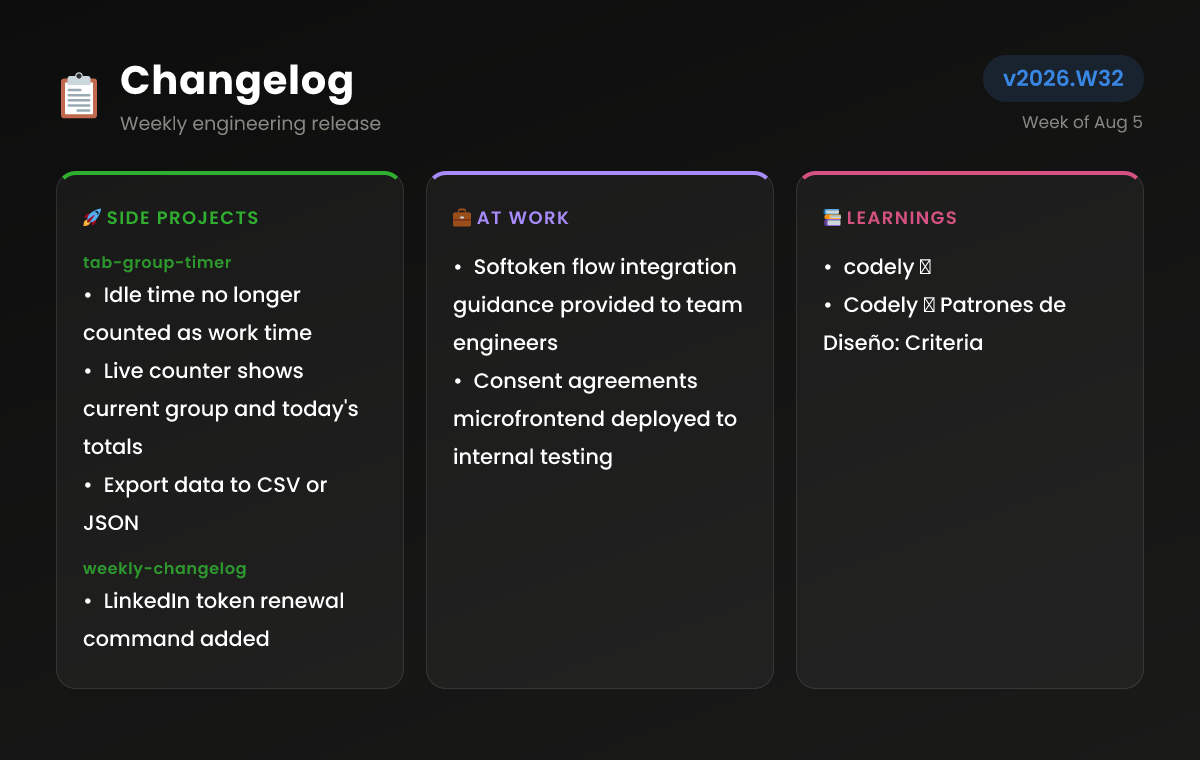
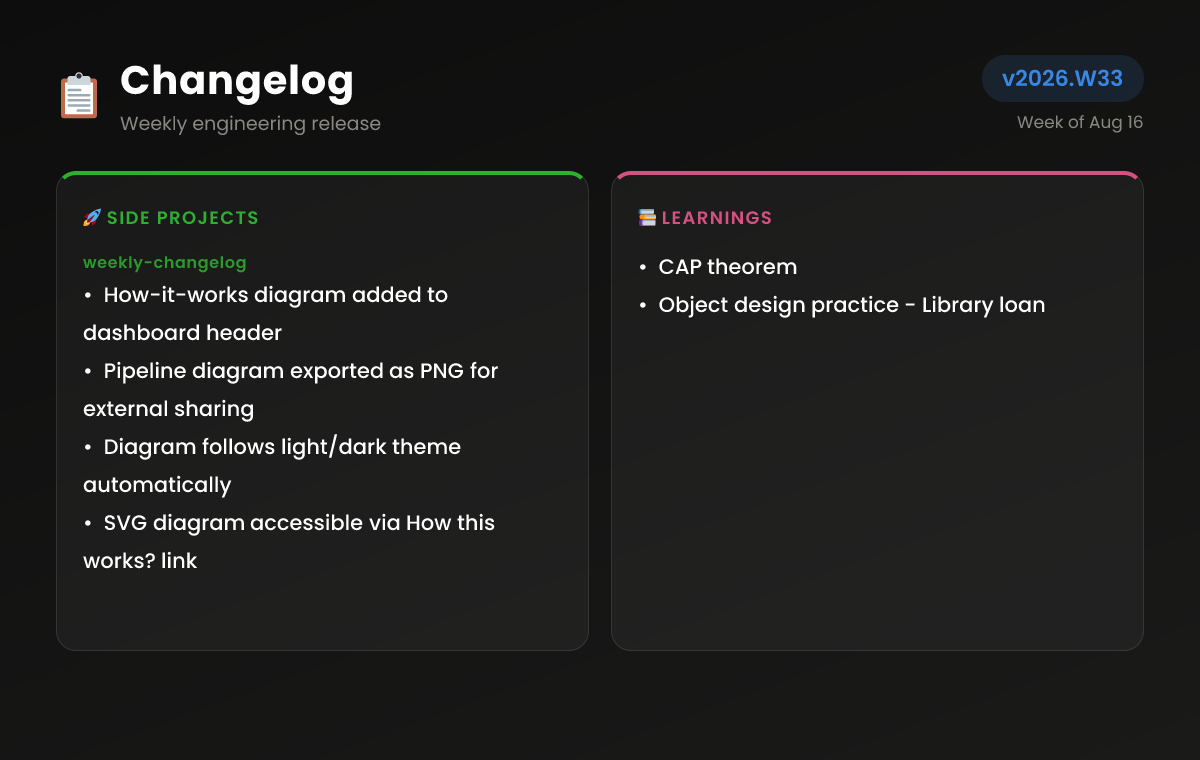
feat: Add card and index on own build

diff --git a/docs/index.html b/docs/index.html
@@ -229,6 +229,20 @@
 
     .empty-state { text-align: center; color: var(--text-muted); font-size: 15px; padding: 20px 0; }
 
+    /* How this works — a link in the header opens the pipeline diagram over the page. */
+    .header-actions { display: flex; align-items: center; gap: 10px; flex-wrap: wrap; }
+    .how-link { font-size: 12px; font-weight: 600; letter-spacing: 0.06em; text-transform: uppercase; color: var(--accent-purple); background: var(--accent-purple-bg); border: 1px solid var(--border); padding: 7px 16px; border-radius: 999px; text-decoration: none; white-space: nowrap; }
+    .how-link:hover { border-color: var(--accent-purple); }
+    .how-modal { display: none; }
+    .how-modal:target { display: flex; position: fixed; inset: 0; z-index: 30; align-items: center; justify-content: center; padding: clamp(12px, 3vw, 40px); }
+    .how-backdrop { position: absolute; inset: 0; background: rgba(11, 11, 11, 0.66); }
+    .how-panel { position: relative; margin: 0; width: min(1180px, 100%); max-height: 92vh; overflow: auto; background: var(--surface); border: 1px solid var(--border); border-radius: 16px; box-shadow: 0 24px 60px rgba(0, 0, 0, 0.35); padding: clamp(16px, 2vw, 24px); }
+    .how-close { position: absolute; top: 10px; right: 16px; font-size: 22px; line-height: 1; color: var(--text-muted); text-decoration: none; }
+    .how-close:hover { color: var(--text-primary); }
+    .how-canvas { overflow-x: auto; }
+    .how-canvas svg { display: block; width: 100%; min-width: 720px; height: auto; }
+    .how-caption { font-size: 13.5px; line-height: 1.55; color: var(--text-muted); margin: 14px 0 0; }
+
     footer { font-size: 13px; color: var(--text-muted); text-align: center; }
     footer a { color: var(--text-secondary); text-decoration: none; }
     footer a:hover { text-decoration: underline; }
@@ -244,116 +258,82 @@
   <div class="page">
     <header class="page-header">
       <h1>Weekly Changelog</h1>
-      <span class="week-pill">Week of Aug 5</span>
+      <div class="header-actions">
+        <a class="how-link" href="#how-it-works">How this works?</a>
+        <span class="week-pill">Week of Aug 16</span>
+      </div>
     </header>
     
     <section class="digest-hero accent-yellow">
       <p class="digest-eyebrow"><span class="ai-badge">AI</span>This week</p>
-      <h2 class="digest-headline">Tab Group Timer reaches 1.0 and privacy policy published</h2>
-      <p class="digest-summary">A lightweight Chrome extension now tracks time per tab group with local-only storage and idle detection. A companion changelog generator adds LinkedIn token renewal and LinkedIn post features.</p>
+      <h2 class="digest-headline">How-it-works diagram added to changelog dashboard</h2>
+      <p class="digest-summary">A visual pipeline diagram is now available to explain the changelog generation flow. The dashboard gains a themed inline SVG and a PNG export for external use.</p>
     </section>
     
-    <section class="dashboard-section">
-      <h2>At work</h2>
-      <article class="entry-card accent-purple">
-        <p class="repo-evaluation"><span class="ai-badge">AI</span>Engineering support delivered for softoken flow integration and internal consent microfrontend deployment. Testing environments validated for company-wide use.</p>
-        <ul class="changes"><li>Helped other team engineers in order to start softoken flow integration</li><li>consents agreements microfronted on testing environment for entire company internal use</li></ul>
-      </article>
-    </section>
     
     <section class="dashboard-section">
       <h2>Product updates by repository</h2>
       <div class="repo-stack">
       <article class="repo-card accent-blue">
         <header class="entry-head">
-          <a class="entry-title" href="https://github.com/jormiquis/tab-group-timer" target="_blank" rel="noopener">tab-group-timer</a>
-          <span class="repo-product">a Chrome extension for tab-group time tracking</span>
+          <a class="entry-title" href="https://github.com/jormiquis/weekly-changelog" target="_blank" rel="noopener">weekly-changelog</a>
+          <span class="repo-product">automated changelog generator</span>
         </header>
-        <p class="repo-evaluation"><span class="ai-badge">AI</span>The extension graduates to v1.0 with a privacy policy, refined idle handling, and a more robust session model. Build artifacts and screenshots are now versioned and packaged for distribution.</p>
+        <p class="repo-evaluation"><span class="ai-badge">AI</span>A new pipeline diagram illustrates the end-to-end changelog process. The dashboard now includes a themed inline SVG and a PNG export for LinkedIn and README use.</p>
         <div class="product-changes">
           <span class="block-label">What changed in the product</span>
-          <ul class="changes"><li>Idle time no longer counted as work time</li><li>Live counter shows current group and today&#39;s totals</li><li>Export data to CSV or JSON</li><li>Privacy policy published and packaged with extension</li></ul>
+          <ul class="changes"><li>How-it-works diagram added to dashboard header</li><li>Pipeline diagram exported as PNG for external sharing</li><li>Diagram follows light/dark theme automatically</li><li>SVG diagram accessible via How this works? link</li></ul>
         </div>
         <div class="repo-highlights">
           <span class="block-label">Decisions</span>
           <div class="highlight-grid">
         <article class="highlight-card">
           <header class="highlight-head">
-            <span class="highlight-title"><span class="ai-badge">AI</span>Session pattern with aggregate state</span>
+            <span class="highlight-title"><span class="ai-badge">AI</span>Theme-aware SVG rendering</span>
           </header>
-          <p class="decision-tradeoff"><span class="tradeoff-label">Chosen over</span> <span class="tradeoff-discarded">naive per-tab tracking</span></p>
+          <p class="decision-tradeoff"><span class="tradeoff-label">Chosen over</span> <span class="tradeoff-discarded">Hardcoded color values</span></p>
           <div class="highlight-body">
-            <pre class="code-panel"><code class="language-typescript">export class TrackActiveTabUseCase {
-  constructor(
-    private repo: TimeRepository,
-    private clock: Clock,
-    private sessions: SessionStore,
-  ) {}
-
-  async onActiveTabChanged(info: ActiveTabInfo): Promise&lt;void&gt; {
-    const now = this.clock.now();
-    const current = await this.sessions.get();
-
-    if (current &amp;&amp; current.groupKey === info.groupKey) {
-      if (current.groupTitle !== info.groupTitle) {
-        await this.sessions.set({ ...current, groupTitle: info.groupTitle });
-      }
-      return;
-    }
-
-    if (current) {
-      await this.flush(now);
-    }
-    await this.sessions.set(
-      new ActiveSession(info.groupKey, info.groupTitle, now)
-    );
-  }</code></pre>
-            <pre class="mermaid">flowchart LR
-  A[onActiveTabChanged] --&gt; B{current session?}
-  B --&gt;|yes| C{same group?}
-  C --&gt;|yes| D[update title]
-  C --&gt;|no| E[close session]
-  B --&gt;|no| F[open new session]</pre>
+            <pre class="code-panel"><code class="language-typescript">export const themedPalette: DiagramPalette = {
+  background: &#39;none&#39;,
+  surface: &#39;var(--tag-bg)&#39;,
+  border: &#39;var(--border)&#39;,
+  textPrimary: &#39;var(--text-primary)&#39;,
+  textSecondary: &#39;var(--text-secondary)&#39;,
+  textMuted: &#39;var(--text-muted)&#39;,
+  line: &#39;var(--text-muted)&#39;,
+  ai: &#39;var(--accent-purple)&#39;,
+  aiSurface: &#39;var(--accent-purple-bg)&#39;,
+  gate: &#39;var(--accent-magenta)&#39;,
+  gateSurface: &#39;var(--accent-magenta-bg)&#39;,
+  publish: &#39;var(--accent-blue)&#39;,
+  publishSurface: &#39;var(--accent-blue-bg)&#39;,
+}</code></pre>
+            <pre class="mermaid">flowchart TD
+  A[Dashboard CSS Variables] --&gt; B[DiagramPalette Interface]
+  B --&gt; C[Inline SVG Rendering]
+  B --&gt; D[PNG Export with Literal Colors]</pre>
           </div>
         </article>
         <article class="highlight-card">
           <header class="highlight-head">
-            <span class="highlight-title"><span class="ai-badge">AI</span>Provider pattern for session storage</span>
+            <span class="highlight-title"><span class="ai-badge">AI</span>Modular diagram generation pipeline</span>
           </header>
-          <p class="decision-tradeoff"><span class="tradeoff-label">Chosen over</span> <span class="tradeoff-discarded">direct chrome.storage.local calls</span></p>
+          <p class="decision-tradeoff"><span class="tradeoff-label">Chosen over</span> <span class="tradeoff-discarded">Monolithic diagram script</span></p>
           <div class="highlight-body">
-            <pre class="code-panel"><code class="language-typescript">export class ChromeSessionStore implements SessionStore {
-  async get(): Promise&lt;ActiveSession | null&gt; {
-    const { session } = await chrome.storage.session.get(&#39;session&#39;);
-    return session ? ActiveSession.fromPlain(session) : null;
-  }
+            <pre class="code-panel"><code class="language-typescript">import { writeFileSync } from &#39;fs&#39;;
+import { renderHowItWorksPng } from &#39;./renderHowItWorks.js&#39;;
 
-  async set(session: ActiveSession): Promise&lt;void&gt; {
-    await chrome.storage.session.set({ session });
-  }
-}</code></pre>
-            <pre class="mermaid">flowchart LR
-  A[SessionStore] --&gt; B[chrome.storage.session]
-  A --&gt; C[ActiveSession]
-  B --&gt;|get| A
-  B --&gt;|set| A</pre>
+const target = process.argv[2] || &#39;docs/how-it-works.png&#39;
+writeFileSync(target, renderHowItWorksPng())
+console.log(`How-it-works diagram written to ${target}`)</code></pre>
+            <pre class="mermaid">flowchart TD
+  A[CLI Command] --&gt; B[generate.ts]
+  B --&gt; C[renderHowItWorksPng]
+  C --&gt; D[PNG File Output]</pre>
           </div>
         </article></div>
         </div>
-        <a class="diff-link" href="https://github.com/jormiquis/tab-group-timer/compare/16ad02786534c2158ddfa78bc721713a8b1ffa46...9bffa567bd0490707add83e47f54275160e74b3a.diff" target="_blank" rel="noopener">View full diff &rarr;</a>
-      </article>
-      <article class="repo-card accent-blue">
-        <header class="entry-head">
-          <a class="entry-title" href="https://github.com/jormiquis/weekly-changelog" target="_blank" rel="noopener">weekly-changelog</a>
-          <span class="repo-product">a changelog generator CLI</span>
-        </header>
-        <p class="repo-evaluation"><span class="ai-badge">AI</span>The generator now supports LinkedIn token renewal, LinkedIn post linking, and a unified view of side projects and work activity. Scheduling and dashboard options have been refined.</p>
-        <div class="product-changes">
-          <span class="block-label">What changed in the product</span>
-          <ul class="changes"><li>LinkedIn token renewal command added</li><li>LinkedIn post link caption changed</li><li>Side projects and work activity unified in one section</li><li>Cron hour adjusted and dashboard alternative provided</li></ul>
-        </div>
-        
-        <a class="diff-link" href="https://github.com/jormiquis/weekly-changelog/compare/0be5018be472c787e45b34dfa547689cc62e896d...6bbb2f2609ef013c8fa4e33d344ee4268a6b0018.diff" target="_blank" rel="noopener">View full diff &rarr;</a>
+        <a class="diff-link" href="https://github.com/jormiquis/weekly-changelog/compare/cabe441025a2d7acc06d04106ff7181a3aaa202f...86847a92361aadae0d4ca4d6ab0080c44f393260.diff" target="_blank" rel="noopener">View full diff &rarr;</a>
       </article></div>
     </section>
     
@@ -365,25 +345,33 @@
       <div class="entry-grid">
       <article class="entry-card accent-magenta">
         <header class="entry-head">
-          <span class="entry-title"><span class="emoji">📝</span>codely → </span>
+          <span class="entry-title"><span class="emoji">📝</span>CAP theorem</span>
         </header>
-        
-        <div class="tags"><span class="tag">courses</span><span class="tag">infrastructure</span></div>
-        
+        <p class="repo-evaluation"><span class="ai-badge">AI</span>A note referencing the CAP theorem in the context of distributed changelog generation.</p>
+        <div class="tags"><span class="tag">Software Engineering</span></div>
+        <div class="sources"><span class="sources-label">Sources</span><a href="https://www.ibm.com/es-es/think/topics/cap-theorem" target="_blank" rel="noopener">https://www.ibm.com/es-es/think/topics/cap-theorem</a></div>
       </article>
       <article class="entry-card accent-magenta">
         <header class="entry-head">
-          <span class="entry-title"><span class="emoji">📝</span>Codely → Patrones de Diseño: Criteria</span>
+          <span class="entry-title"><span class="emoji">📝</span>Object design practice - Library loan</span>
         </header>
-        
-        <div class="tags"><span class="tag">courses</span><span class="tag">patterns</span></div>
-        
+        <p class="repo-evaluation"><span class="ai-badge">AI</span>A note on applying object design principles to library loan system modeling.</p>
+        <div class="tags"><span class="tag">modeling</span><span class="tag">kata</span></div>
+        <div class="sources"><span class="sources-label">Sources</span><a href="https://emmanuelvalverderamos.substack.com/p/kata-2-library-loan?utm_campaign=post&amp;utm_medium=web" target="_blank" rel="noopener">https://emmanuelvalverderamos.substack.com/p/kata-2-library-loan?utm_campaign=post&amp;utm_medium=web</a></div>
       </article></div>
     </section>
     
   </div>
+  <div class="how-modal" id="how-it-works">
+    <a class="how-backdrop" href="#_" aria-label="Close"></a>
+    <figure class="how-panel">
+      <a class="how-close" href="#_" aria-label="Close">&times;</a>
+      <div class="how-canvas"><svg xmlns="http://www.w3.org/2000/svg" viewBox="0 0 1200 900" role="img" font-family="Poppins, sans-serif" aria-label="How the weekly changelog works: a GitHub Actions cron pulls GitHub and Notion activity into a domain hexagon, an optional free-tier LLM chain adds a digest, a card and dashboard are rendered, and a Telegram approval decides whether the post reaches LinkedIn."><rect width="1200" height="900" fill="none"/><text x="52" y="86" font-size="38" font-weight="700" fill="var(--text-primary)" text-anchor="start">How this works</text><text x="52" y="118" font-size="16" font-weight="400" fill="var(--text-muted)" text-anchor="start">A week of commits and notes, turned into a post — and nothing published without a human yes.</text><rect x="52" y="196" width="240" height="100" rx="14" fill="var(--tag-bg)" stroke="var(--border)" stroke-width="1.5"/><g transform="translate(76 233) scale(1.0833)"><path d="M12 .297c-6.63 0-12 5.373-12 12 0 5.303 3.438 9.8 8.205 11.385.6.113.82-.258.82-.577 0-.285-.01-1.04-.015-2.04-3.338.724-4.042-1.61-4.042-1.61C4.422 18.07 3.633 17.7 3.633 17.7c-1.087-.744.084-.729.084-.729 1.205.084 1.838 1.236 1.838 1.236 1.07 1.835 2.809 1.305 3.495.998.108-.776.417-1.305.76-1.605-2.665-.3-5.466-1.332-5.466-5.93 0-1.31.465-2.38 1.235-3.22-.135-.303-.54-1.523.105-3.176 0 0 1.005-.322 3.3 1.23.96-.267 1.98-.399 3-.405 1.02.006 2.04.138 3 .405 2.28-1.552 3.285-1.23 3.285-1.23.645 1.653.24 2.873.12 3.176.765.84 1.23 1.91 1.23 3.22 0 4.61-2.805 5.625-5.475 5.92.42.36.81 1.096.81 2.22 0 1.606-.015 2.896-.015 3.286 0 .315.21.69.825.57C20.565 22.092 24 17.592 24 12.297c0-6.627-5.373-12-12-12" fill="var(--text-primary)"/></g><text x="118" y="242" font-size="18" font-weight="600" fill="var(--text-primary)" text-anchor="start">GitHub Actions</text><text x="118" y="264" font-size="12" font-weight="400" fill="var(--text-muted)" text-anchor="start">cron · every Wed 07:25 UTC</text><line x1="222" y1="306" x2="222.0" y2="400.1" stroke="var(--text-muted)" stroke-width="1.8" stroke-linecap="round"/><polygon points="222,412 217.7,400.1 226.3,400.1" fill="var(--text-muted)"/><rect x="380" y="190" width="520" height="152" rx="18" fill="var(--accent-purple-bg)" stroke="var(--accent-purple)" stroke-width="1.5" stroke-dasharray="7 6"/><text x="640" y="218" font-size="11.5" font-weight="400" fill="var(--accent-purple)" text-anchor="middle" letter-spacing="0.6">SourceSynthesizer · first free-tier provider that answers wins</text><rect x="400" y="238" width="200" height="84" rx="14" fill="var(--tag-bg)" stroke="var(--border)" stroke-width="1.5"/><g transform="translate(414 252) scale(0.7500)"><path d="M12 1.6l2.05 6.35L20.4 12l-6.35 2.05L12 20.4l-2.05-6.35L3.6 12l6.35-2.05z" fill="var(--accent-purple)"/></g><text x="500" y="282" font-size="19" font-weight="600" fill="var(--text-primary)" text-anchor="middle">Mistral</text><text x="500" y="304" font-size="12" font-weight="400" fill="var(--text-muted)" text-anchor="middle">primary</text><rect x="680" y="238" width="200" height="84" rx="14" fill="var(--tag-bg)" stroke="var(--border)" stroke-width="1.5"/><g transform="translate(694 252) scale(0.7500)"><path d="M12 1.6l2.05 6.35L20.4 12l-6.35 2.05L12 20.4l-2.05-6.35L3.6 12l6.35-2.05z" fill="var(--accent-purple)"/></g><text x="780" y="282" font-size="19" font-weight="600" fill="var(--text-primary)" text-anchor="middle">Groq</text><text x="780" y="304" font-size="12" font-weight="400" fill="var(--text-muted)" text-anchor="middle">fallback</text><line x1="606" y1="280" x2="662.1" y2="280.0" stroke="var(--accent-purple)" stroke-width="1.8" stroke-linecap="round"/><polygon points="674,280 662.1,284.3 662.1,275.7" fill="var(--accent-purple)"/><text x="640" y="266" font-size="10.5" font-weight="400" fill="var(--accent-purple)" text-anchor="middle">on error</text><line x1="444" y1="402.39745962155615" x2="444.0" y2="361.9" stroke="var(--accent-purple)" stroke-width="1.8" stroke-linecap="round"/><polygon points="444,350 448.3,361.9 439.7,361.9" fill="var(--accent-purple)"/><text x="434" y="380" font-size="11" font-weight="400" fill="var(--accent-purple)" text-anchor="end">activities</text><line x1="736" y1="350" x2="736.0" y2="400.1" stroke="var(--accent-purple)" stroke-width="1.8" stroke-linecap="round"/><polygon points="736,412 731.7,400.1 740.3,400.1" fill="var(--accent-purple)"/><text x="746" y="380" font-size="11" font-weight="400" fill="var(--accent-purple)" text-anchor="start">digest (optional)</text><text x="56" y="404" font-size="11.5" font-weight="400" fill="var(--text-muted)" text-anchor="start" letter-spacing="3">SOURCES</text><text x="348" y="404" font-size="11.5" font-weight="400" fill="var(--text-muted)" text-anchor="start" letter-spacing="3">DOMAIN</text><text x="640" y="404" font-size="11.5" font-weight="400" fill="var(--text-muted)" text-anchor="start" letter-spacing="3">RENDER</text><text x="932" y="404" font-size="11.5" font-weight="400" fill="var(--text-muted)" text-anchor="start" letter-spacing="3">APPROVAL</text><rect x="52" y="420" width="200" height="150" rx="14" fill="var(--tag-bg)" stroke="var(--border)" stroke-width="1.5"/><g transform="translate(72 452) scale(0.9167)"><path d="M12 .297c-6.63 0-12 5.373-12 12 0 5.303 3.438 9.8 8.205 11.385.6.113.82-.258.82-.577 0-.285-.01-1.04-.015-2.04-3.338.724-4.042-1.61-4.042-1.61C4.422 18.07 3.633 17.7 3.633 17.7c-1.087-.744.084-.729.084-.729 1.205.084 1.838 1.236 1.838 1.236 1.07 1.835 2.809 1.305 3.495.998.108-.776.417-1.305.76-1.605-2.665-.3-5.466-1.332-5.466-5.93 0-1.31.465-2.38 1.235-3.22-.135-.303-.54-1.523.105-3.176 0 0 1.005-.322 3.3 1.23.96-.267 1.98-.399 3-.405 1.02.006 2.04.138 3 .405 2.28-1.552 3.285-1.23 3.285-1.23.645 1.653.24 2.873.12 3.176.765.84 1.23 1.91 1.23 3.22 0 4.61-2.805 5.625-5.475 5.92.42.36.81 1.096.81 2.22 0 1.606-.015 2.896-.015 3.286 0 .315.21.69.825.57C20.565 22.092 24 17.592 24 12.297c0-6.627-5.373-12-12-12" fill="var(--text-primary)"/></g><text x="104" y="462" font-size="17" font-weight="600" fill="var(--text-primary)" text-anchor="start">GitHub</text><text x="104" y="481" font-size="11.5" font-weight="400" fill="var(--text-muted)" text-anchor="start">commits · PRs · repos</text><line x1="72" y1="498" x2="232" y2="498" stroke="var(--border)" stroke-width="1"/><g transform="translate(72 518) scale(0.9167)"><path d="M4.459 4.208c.746.606 1.026.56 2.428.466l13.215-.793c.28 0 .047-.28-.046-.326L17.86 1.968c-.42-.326-.981-.7-2.055-.607L3.01 2.295c-.466.046-.56.28-.374.466zm.793 3.08v13.904c0 .747.373 1.027 1.214.98l14.523-.84c.841-.046.935-.56.935-1.167V6.354c0-.606-.233-.933-.748-.887l-15.177.887c-.56.047-.747.327-.747.933zm14.337.745c.093.42 0 .84-.42.888l-.7.14v10.263c-.608.327-1.168.514-1.635.514-.748 0-.935-.234-1.495-.933l-4.577-7.186v6.952l1.448.327s0 .84-1.168.84l-3.222.186c-.093-.186 0-.653.327-.746l.84-.233V9.854l-1.168-.093c-.093-.42.14-1.026.793-1.073l3.456-.233 4.764 7.279v-6.44l-1.215-.139c-.093-.514.28-.887.747-.933zM1.936 1.035l13.31-.98c1.634-.14 2.055-.047 3.082.7l4.249 2.986c.7.513.934.653.934 1.213v16.378c0 1.026-.373 1.634-1.68 1.726l-15.458.934c-.98.047-1.448-.093-1.962-.746l-3.129-4.06c-.56-.747-.793-1.306-.793-1.96V2.667c0-.839.374-1.54 1.447-1.632z" fill="var(--text-primary)"/></g><text x="104" y="528" font-size="17" font-weight="600" fill="var(--text-primary)" text-anchor="start">Notion</text><text x="104" y="547" font-size="11.5" font-weight="400" fill="var(--text-muted)" text-anchor="start">notes · learnings</text><polygon points="544.0,495.0 494.0,408.4 394.0,408.4 344.0,495.0 394.0,581.6 494.0,581.6" fill="var(--tag-bg)" stroke="var(--text-secondary)" stroke-width="1.8"/><text x="444" y="490" font-size="23" font-weight="600" fill="var(--text-primary)" text-anchor="middle">Activity[]</text><text x="444" y="514" font-size="11.5" font-weight="400" fill="var(--text-muted)" text-anchor="middle">pure domain · last 7 days</text><text x="444" y="620" font-size="11.5" font-weight="400" fill="var(--text-muted)" text-anchor="middle">every labelled arrow is a port — swap the adapter, the hexagon never moves</text><rect x="636" y="420" width="200" height="150" rx="14" fill="var(--tag-bg)" stroke="var(--border)" stroke-width="1.5"/><g transform="translate(656 452) scale(0.9167)"><path d="M2.5 4.5h19a1 1 0 0 1 1 1v13a1 1 0 0 1-1 1h-19a1 1 0 0 1-1-1v-13a1 1 0 0 1 1-1zm1 2v9.2l4.8-4.3 3.6 3.2 4.2-4.4 3.4 3.3V6.5zM7 8a1.6 1.6 0 1 0 0 3.2A1.6 1.6 0 0 0 7 8z" fill="var(--text-primary)"/></g><text x="688" y="462" font-size="17" font-weight="600" fill="var(--text-primary)" text-anchor="start">card.png</text><text x="688" y="481" font-size="11.5" font-weight="400" fill="var(--text-muted)" text-anchor="start">satori + resvg</text><line x1="656" y1="498" x2="816" y2="498" stroke="var(--border)" stroke-width="1"/><g transform="translate(656 518) scale(0.9167)"><path d="M2.5 3.5h19a1 1 0 0 1 1 1v15a1 1 0 0 1-1 1h-19a1 1 0 0 1-1-1v-15a1 1 0 0 1 1-1zm1 5v10h17v-10zm1.6-3.1a1 1 0 1 0 0 2 1 1 0 0 0 0-2zm3 0a1 1 0 1 0 0 2 1 1 0 0 0 0-2z" fill="var(--text-primary)"/></g><text x="688" y="528" font-size="17" font-weight="600" fill="var(--text-primary)" text-anchor="start">dashboard.html</text><text x="688" y="547" font-size="11.5" font-weight="400" fill="var(--text-muted)" text-anchor="start">GitHub Pages</text><rect x="928" y="420" width="200" height="150" rx="14" fill="var(--accent-magenta-bg)" stroke="var(--accent-magenta)" stroke-width="1.5"/><g transform="translate(1013 446) scale(1.2500)"><path d="M11.944 0A12 12 0 0 0 0 12a12 12 0 0 0 12 12 12 12 0 0 0 12-12A12 12 0 0 0 12 0a12 12 0 0 0-.056 0zm4.962 7.224c.1-.002.321.023.465.14a.506.506 0 0 1 .171.325c.016.093.036.306.02.472-.18 1.898-.962 6.502-1.36 8.627-.168.9-.499 1.201-.82 1.23-.696.065-1.225-.46-1.9-.902-1.056-.693-1.653-1.124-2.678-1.8-1.185-.78-.417-1.21.258-1.91.177-.184 3.247-2.977 3.307-3.23.007-.032.014-.15-.056-.212s-.174-.041-.249-.024c-.106.024-1.793 1.14-5.061 3.345-.48.33-.913.49-1.302.48-.428-.008-1.252-.241-1.865-.44-.752-.245-1.349-.374-1.297-.789.027-.216.325-.437.893-.663 3.498-1.524 5.83-2.529 6.998-3.014 3.332-1.386 4.025-1.627 4.476-1.635z" fill="var(--accent-magenta)"/></g><text x="1028" y="508" font-size="19" font-weight="600" fill="var(--text-primary)" text-anchor="middle">Telegram</text><text x="1028" y="528" font-size="11.5" font-weight="400" fill="var(--text-muted)" text-anchor="middle">the card lands in my chat</text><text x="1028" y="549" font-size="12.5" font-weight="500" fill="var(--accent-magenta)" text-anchor="middle">I reply  yes / no</text><line x1="256" y1="495" x2="328.1" y2="495.0" stroke="var(--text-muted)" stroke-width="1.8" stroke-linecap="round"/><polygon points="340,495 328.1,499.3 328.1,490.7" fill="var(--text-muted)"/><text x="298" y="481" font-size="10.5" font-weight="400" fill="var(--text-muted)" text-anchor="middle">SourceRetriever</text><line x1="548" y1="495" x2="620.1" y2="495.0" stroke="var(--text-muted)" stroke-width="1.8" stroke-linecap="round"/><polygon points="632,495 620.1,499.3 620.1,490.7" fill="var(--text-muted)"/><text x="590" y="481" font-size="10.5" font-weight="400" fill="var(--text-muted)" text-anchor="middle">render</text><line x1="840" y1="495" x2="912.1" y2="495.0" stroke="var(--text-muted)" stroke-width="1.8" stroke-linecap="round"/><polygon points="924,495 912.1,499.3 912.1,490.7" fill="var(--text-muted)"/><text x="882" y="481" font-size="10.5" font-weight="400" fill="var(--text-muted)" text-anchor="middle">Checker</text><rect x="636" y="646" width="200" height="112" rx="14" fill="var(--tag-bg)" stroke="var(--border)" stroke-width="1.5"/><g transform="translate(725 672) scale(0.9167)"><path d="M12 1.8A10.2 10.2 0 1 0 12 22.2 10.2 10.2 0 0 0 12 1.8zm0 2.4a7.8 7.8 0 0 1 4.72 1.6L5.8 16.72A7.8 7.8 0 0 1 12 4.2zm0 15.6a7.8 7.8 0 0 1-4.72-1.6L18.2 7.28A7.8 7.8 0 0 1 12 19.8z" fill="var(--text-muted)"/></g><text x="736" y="716" font-size="17" font-weight="600" fill="var(--text-secondary)" text-anchor="middle">Discarded</text><text x="736" y="736" font-size="11.5" font-weight="400" fill="var(--text-muted)" text-anchor="middle">nothing is published</text><rect x="928" y="646" width="200" height="112" rx="14" fill="var(--accent-blue-bg)" stroke="var(--accent-blue)" stroke-width="1.5"/><g transform="translate(1016 670) scale(1.0000)"><path d="M20.447 20.452h-3.554v-5.569c0-1.328-.027-3.037-1.852-3.037-1.853 0-2.136 1.445-2.136 2.939v5.667H9.351V9h3.414v1.561h.046c.477-.9 1.637-1.85 3.37-1.85 3.601 0 4.267 2.37 4.267 5.455v6.286zM5.337 7.433a2.062 2.062 0 0 1-2.063-2.065 2.064 2.064 0 1 1 2.063 2.065zm1.782 13.019H3.555V9h3.564v11.452zM22.225 0H1.771C.792 0 0 .774 0 1.729v20.542C0 23.227.792 24 1.771 24h20.451C23.2 24 24 23.227 24 22.271V1.729C24 .774 23.2 0 22.222 0h.003z" fill="var(--accent-blue)"/></g><text x="1028" y="716" font-size="17" font-weight="600" fill="var(--text-primary)" text-anchor="middle">LinkedIn</text><text x="1028" y="736" font-size="11.5" font-weight="400" fill="var(--text-muted)" text-anchor="middle">post + card + dashboard</text><path d="M 1028 570 V 606 H 736" fill="none" stroke="var(--text-muted)" stroke-width="1.8" stroke-linecap="round" stroke-linejoin="round"/><line x1="736" y1="606" x2="736.0" y2="626.1" stroke="var(--text-muted)" stroke-width="1.8" stroke-linecap="round"/><polygon points="736,638 731.7,626.1 740.3,626.1" fill="var(--text-muted)"/><line x1="1028" y1="606" x2="1028.0" y2="626.1" stroke="var(--accent-blue)" stroke-width="1.8" stroke-linecap="round"/><polygon points="1028,638 1023.7,626.1 1032.3,626.1" fill="var(--accent-blue)"/><text x="726" y="630" font-size="12" font-weight="400" fill="var(--text-muted)" text-anchor="end">no</text><text x="1038" y="630" font-size="12" font-weight="400" fill="var(--accent-blue)" text-anchor="start">yes · Sender</text><line x1="52" y1="798" x2="1148" y2="798" stroke="var(--border)" stroke-width="1"/><rect x="52" y="826" width="240.60000000000002" height="40" rx="20" fill="var(--tag-bg)" stroke="var(--border)" stroke-width="1.5"/><text x="172.3" y="851" font-size="13" font-weight="400" fill="var(--text-muted)" text-anchor="middle">TypeScript · ports &amp; adapters</text><rect x="306.6" y="826" width="166.6" height="40" rx="20" fill="var(--tag-bg)" stroke="var(--border)" stroke-width="1.5"/><text x="389.90000000000003" y="851" font-size="13" font-weight="400" fill="var(--text-muted)" text-anchor="middle">1 LLM call per week</text><rect x="487.20000000000005" y="826" width="240.60000000000002" height="40" rx="20" fill="var(--tag-bg)" stroke="var(--border)" stroke-width="1.5"/><text x="607.5" y="851" font-size="13" font-weight="400" fill="var(--text-muted)" text-anchor="middle">every provider on a free tier</text><rect x="741.8000000000001" y="826" width="181.4" height="40" rx="20" fill="var(--tag-bg)" stroke="var(--border)" stroke-width="1.5"/><text x="832.5000000000001" y="851" font-size="13" font-weight="400" fill="var(--text-primary)" text-anchor="middle">no AI? it still ships</text></svg></div>
+      <figcaption class="how-caption">Every Wednesday a GitHub Action collects the week from GitHub and Notion, normalises it into one <code>Activity</code> shape, asks a free-tier LLM for a digest &mdash; optional, the run never fails on it &mdash; renders the card and this dashboard, and waits for a yes on Telegram before anything reaches LinkedIn.</figcaption>
+    </figure>
+  </div>
   <footer>
-    Generated Aug 5, 12:36 PM &middot; <a href="https://github.com/jormiquis/weekly-changelog">weekly-changelog</a>
+    Generated Aug 16, 12:44 PM &middot; <a href="https://github.com/jormiquis/weekly-changelog">weekly-changelog</a>
   </footer>
   <script src="https://cdn.jsdelivr.net/gh/highlightjs/cdn-release@11.9.0/build/highlight.min.js"></script>
   <script>window.hljs && document.querySelectorAll('.code-panel code').forEach(function (block) { window.hljs.highlightElement(block) });</script>
